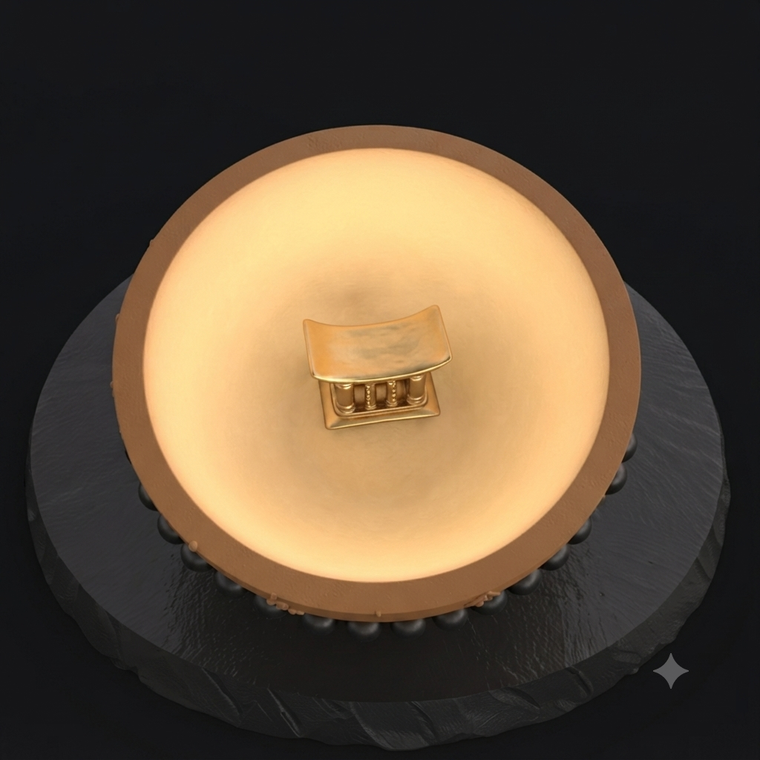
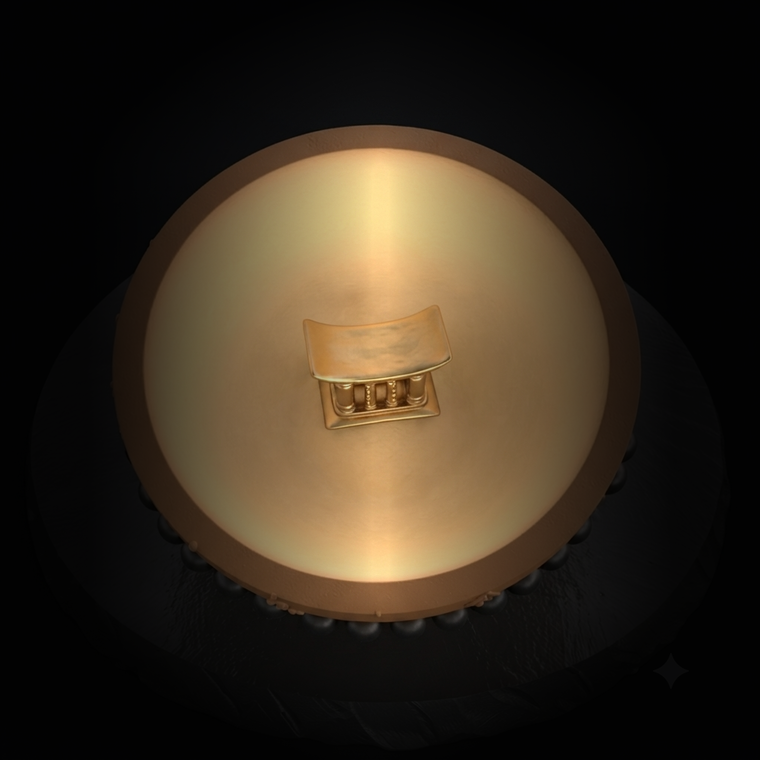
Polish unboxing: vignette render backgrounds, drop rays behind opaque hero
- Baked a dark vignette into the 4 render beats so their studio background
  melts into the velvet overlay (no visible panel/rectangle), keeping the
  black cord + beads intact (a cutout ate them).
- Removed the legendary ray-burst behind the reward (it boxed the opaque
  render); soft radial bloom + gentle sway remain.

diff --git a/app/lib/widgets/blind_box.dart b/app/lib/widgets/blind_box.dart
@@ -73,7 +73,7 @@ class _BlindBoxOpeningState extends State<BlindBoxOpening>
     with TickerProviderStateMixin {
   late final AnimationController _c; // coil → shake → burst → reveal
   late final AnimationController _glow; // bloom + ground-glow pulse
-  late final AnimationController _spin; // legendary rays + reward sway
+  late final AnimationController _spin; // gentle legendary reward sway
   bool _revealed = false;
   final Set<String> _fired = {};
 
@@ -289,30 +289,15 @@ class _BlindBoxOpeningState extends State<BlindBoxOpening>
           SizedBox(
             width: 300,
             height: 250,
-            child: Stack(
-              alignment: Alignment.center,
-              clipBehavior: Clip.none,
-              children: [
-                // Legendary: slow gold rays behind the hero.
-                if (_isLegendary)
-                  AnimatedBuilder(
-                    animation: _spin,
-                    builder: (_, __) => Transform.rotate(
-                      angle: _spin.value * 2 * math.pi,
-                      child: CustomPaint(
-                          size: const Size(300, 300),
-                          painter: _RayPainter(accent)),
-                    ),
-                  ),
-                TweenAnimationBuilder<double>(
-                  tween: Tween(begin: 0.5, end: 1.0),
-                  duration: const Duration(milliseconds: 520),
-                  curve: Curves.elasticOut,
-                  builder: (_, s, child) =>
-                      Transform.scale(scale: s, child: child),
-                  child: hero,
-                ),
-              ],
+            child: Center(
+              child: TweenAnimationBuilder<double>(
+                tween: Tween(begin: 0.5, end: 1.0),
+                duration: const Duration(milliseconds: 520),
+                curve: Curves.elasticOut,
+                builder: (_, s, child) =>
+                    Transform.scale(scale: s, child: child),
+                child: hero,
+              ),
             ),
           ),
           const SizedBox(height: 14),
@@ -430,33 +415,6 @@ class _PillButton extends StatelessWidget {
       ),
     );
   }
-}
-
-/// Slow radiating rays behind a legendary reward. Static shape; the caller
-/// rotates it with a [Transform].
-class _RayPainter extends CustomPainter {
-  final Color color;
-  _RayPainter(this.color);
-
-  @override
-  void paint(Canvas canvas, Size size) {
-    final c = Offset(size.width / 2, size.height / 2);
-    final r = size.shortestSide / 2;
-    const n = 12;
-    final paint = Paint()..color = color.withValues(alpha: 0.13);
-    for (var i = 0; i < n; i++) {
-      final a = i * 2 * math.pi / n;
-      final path = Path()
-        ..moveTo(c.dx, c.dy)
-        ..lineTo(c.dx + math.cos(a - 0.05) * r, c.dy + math.sin(a - 0.05) * r)
-        ..lineTo(c.dx + math.cos(a + 0.05) * r, c.dy + math.sin(a + 0.05) * r)
-        ..close();
-      canvas.drawPath(path, paint);
-    }
-  }
-
-  @override
-  bool shouldRepaint(covariant _RayPainter old) => old.color != color;
 }
 
 /// A one-shot particle bloom from centre. [t] 0→1 drives expansion + fade.
